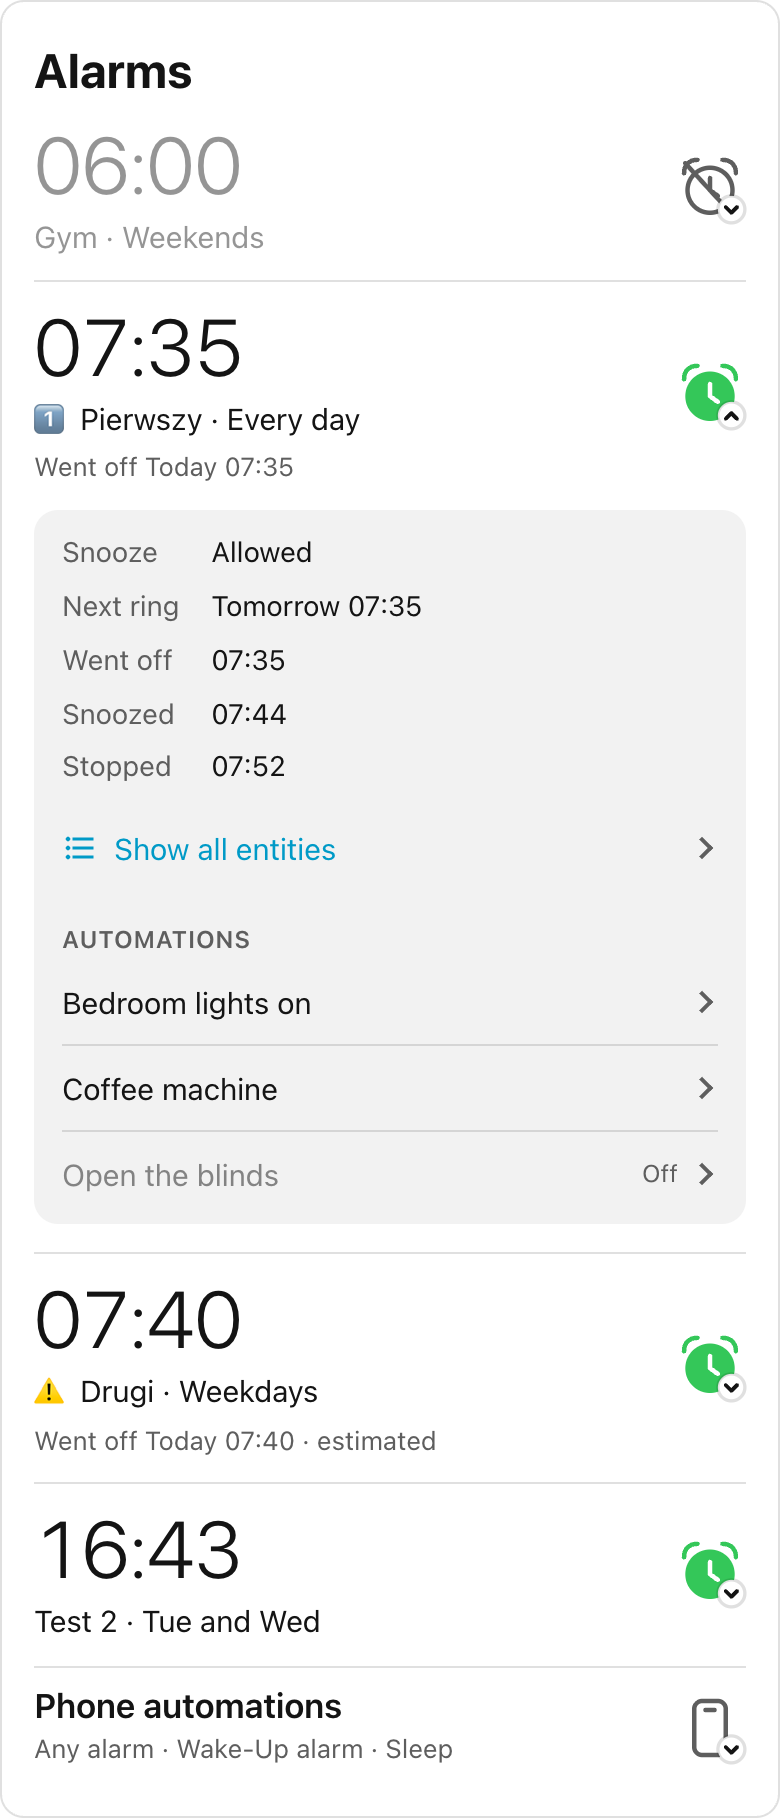
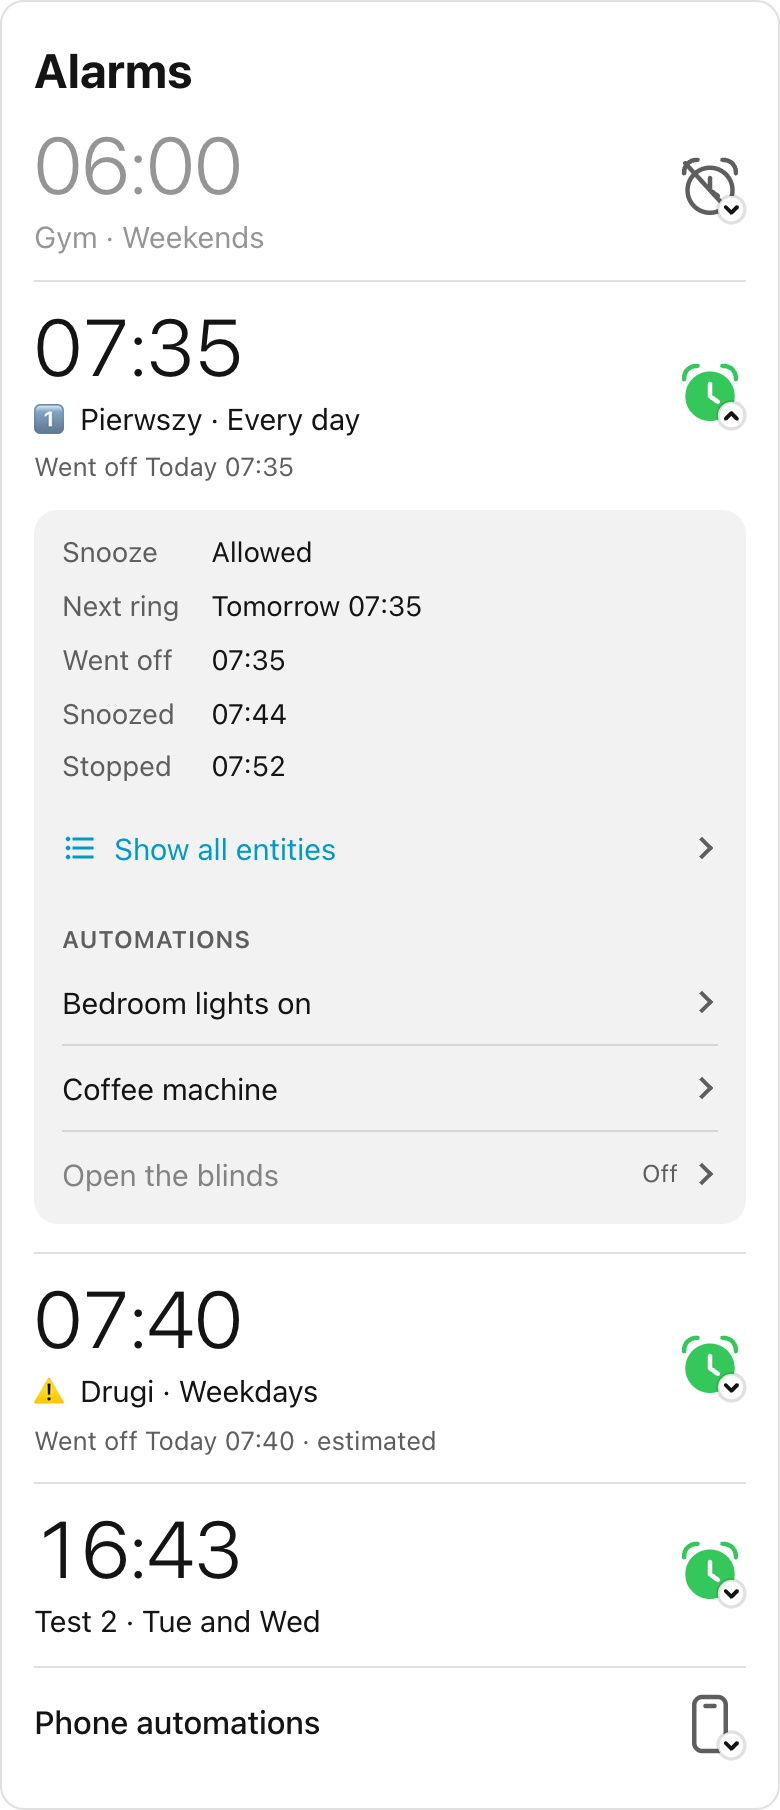
💄 Show the phone automations row as one line

diff --git a/custom_components/iphone_alarms_sync/frontend/iphone-alarms-card.js b/custom_components/iphone_alarms_sync/frontend/iphone-alarms-card.js
@@ -379,8 +379,9 @@ button:focus-visible { outline: 2px solid var(--primary-color); outline-offset: 
 .subtitle { display: flex; align-items: center; gap: 6px; margin-top: 4px; overflow: hidden; font-size: 0.9375rem; line-height: 1.35; white-space: nowrap; flex-wrap: wrap; color: var(--primary-text-color); }
 .subtitle span { overflow: hidden; text-overflow: ellipsis; }
 .subtitle .last { flex-basis: 100%; font-size: 0.8125rem; color: var(--secondary-text-color); }
-.phone-row .time { font-size: 1.0625rem; font-weight: 600; letter-spacing: 0; }
-.phone-row .subtitle { font-size: 0.8125rem; color: var(--secondary-text-color); }
+/* One line, not an alarm: its groups are named inside. */
+.phone-row .time { font-size: 1rem; font-weight: 500; letter-spacing: 0; }
+.phone-row .subtitle { display: none; }
 .off .main { opacity: var(--iphone-alarms-disabled-opacity, 0.45); }
 .status { flex: none; width: 36px; height: 36px; overflow: visible; fill: none; stroke: var(--secondary-text-color); stroke-width: 2; stroke-linecap: round; stroke-linejoin: round; }
 .status.on { --clock: var(--iphone-alarms-on-color, #34c759); }
@@ -606,7 +607,7 @@ class IPhoneAlarmsCard extends HTMLElement {
           group.phone.id,
           "phone-row",
           escape(t.phone_automations),
-          `<span>${escape(PHONE_SUBJECTS.filter((subject) => group.phone.entities[subject]).map((subject) => t[subject]).join(" · "))}</span>`,
+          "",
           phoneIcon(),
           () => this._phoneDetails(group.phone.id, ctx),
         );

diff --git a/tests/frontend/card.dom.test.js b/tests/frontend/card.dom.test.js
@@ -126,7 +126,7 @@ test("the phone's automations get a row of their own, by subject", async () => {
   const el = mount({}, makeHass({ phones: [phone] }));
   const phoneRow = row(el, PHONE.id);
   assert.equal(text($(el, ".phone-row .time")), "Phone automations");
-  assert.equal(text($(el, ".phone-row .subtitle")), "Any alarm · Wake-Up alarm · Sleep");
+  assert.equal(text($(el, ".phone-row .subtitle")), "");
   // Below the alarms, last.
   assert.equal($$(el, "button.row").at(-1), phoneRow);
   phoneRow.click();
